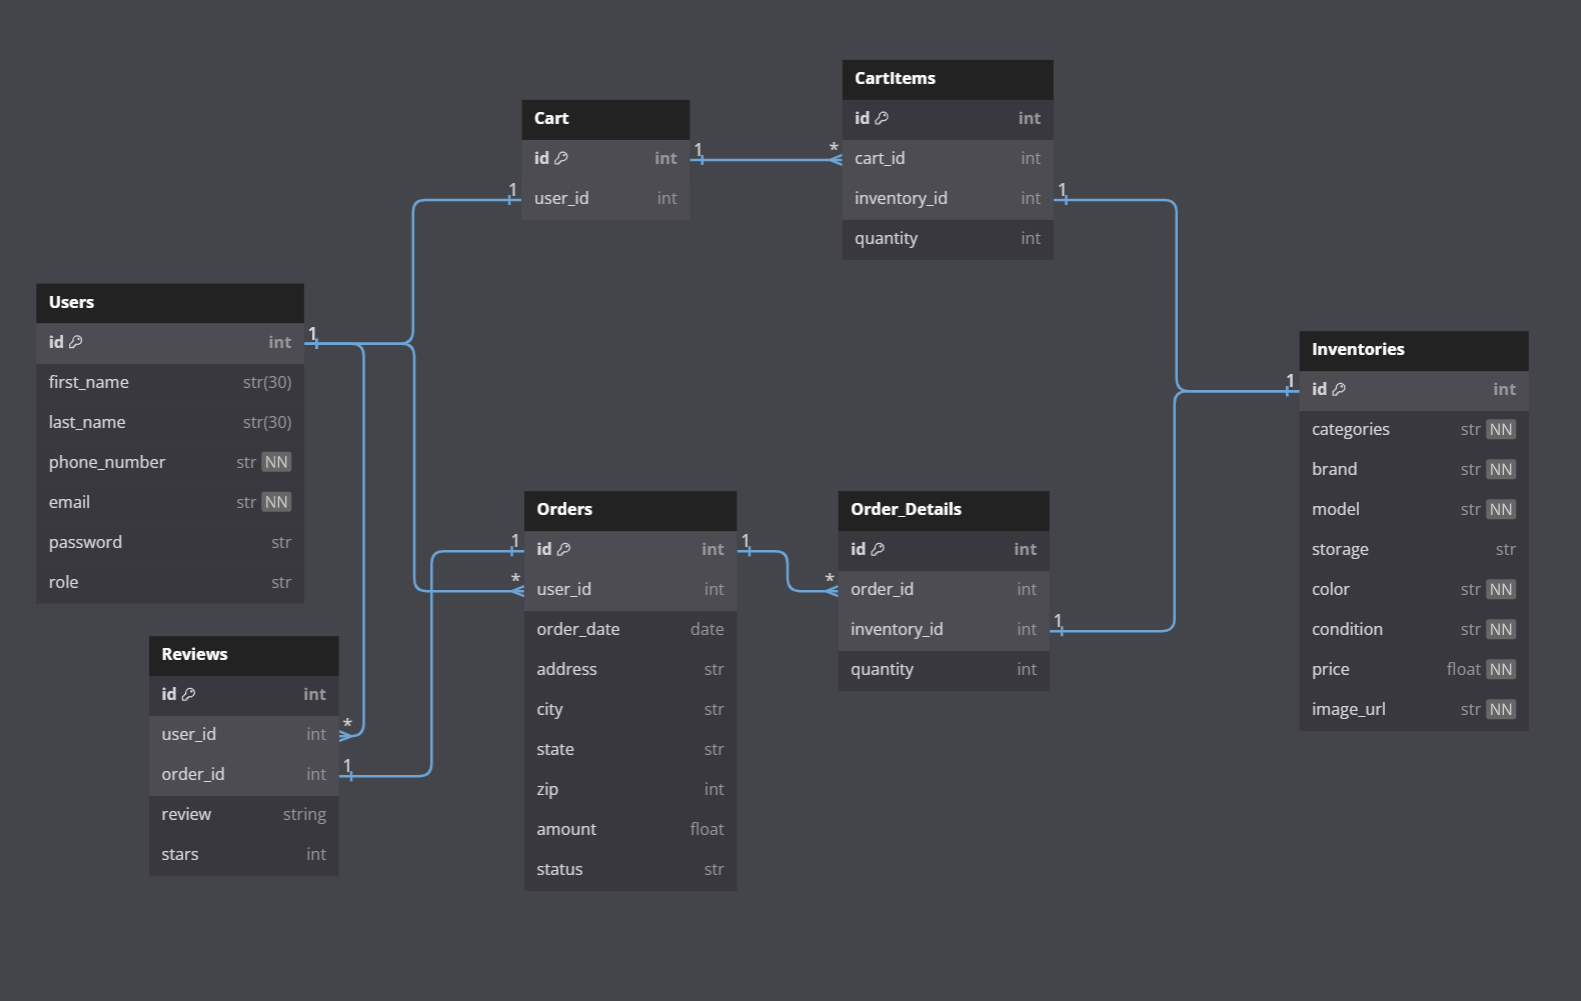
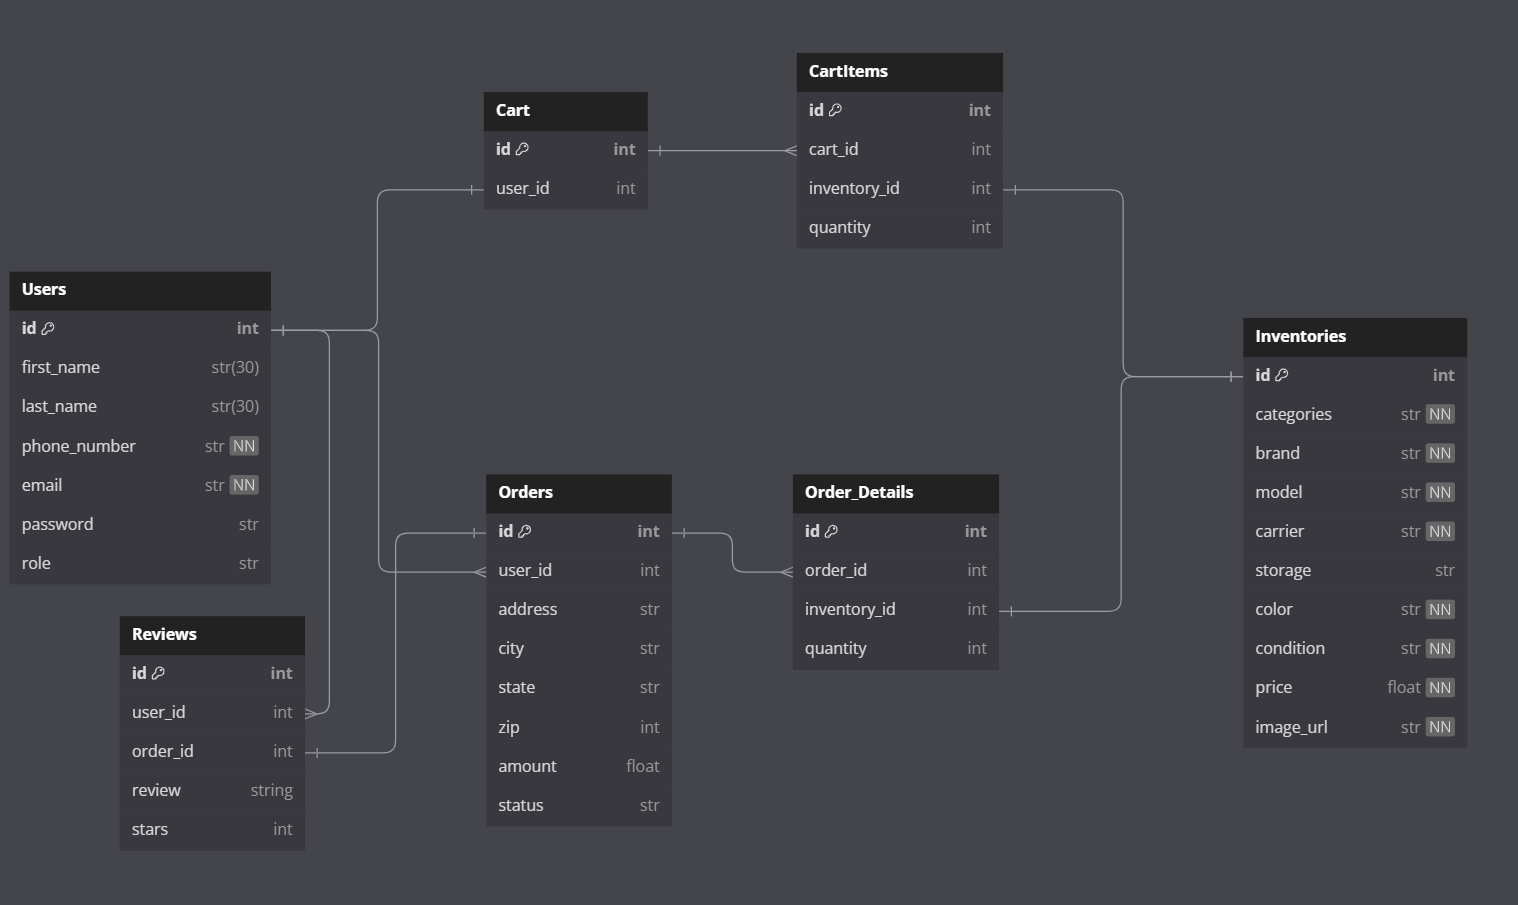
Order routes seems to be working fine

diff --git a/backend/routes/api/orders.js b/backend/routes/api/orders.js
@@ -1,0 +1,110 @@
+const express = require("express");
+const { requireAuth } = require("../../utils/auth");
+const { Order, OrderDetail, Inventory } = require("../../db/models");
+const { handleValidationErrors } = require("../../utils/validation");
+const { check } = require("express-validator");
+
+const router = express.Router();
+
+const validateOrder = [
+    check("address")
+        .exists({ checkFalsy: true })
+        .withMessage("Address is required"),
+    check("city")
+        .exists({ checkFalsy: true })
+        .withMessage("City is required"),
+    check("state")
+        .exists({ checkFalsy: true })
+        .withMessage("State is required"),
+    check("zip")
+        .exists({ checkFalsy: true })
+        .withMessage("Zip Code is required"),
+    handleValidationErrors
+]
+
+// Get All Orders, Role must be Admin
+router.get("/", requireAuth, async (req, res) => {
+  const userRole = req.user.role;
+  if (userRole !== "Admin")
+    return res.status(403).json({ message: "Forbidden" });
+
+  const orders = await Order.findAll();
+  return res.json(orders);
+});
+
+// Get All Order of Current User
+router.get("/current", requireAuth, async (req, res) => {
+  const user_id = req.user.id;
+
+  const orders = await Order.findAll({
+    where: { user_id: user_id },
+    include: [
+      {
+        model: OrderDetail,
+        attribute: { exclude: ["createdAt", "updatedAt"] },
+        include: [
+          {
+            model: Inventory,
+            attributes: { exclude: ["createdAt", "updatedAt"] },
+          },
+        ],
+      },
+    ],
+  });
+
+  return res.json(orders);
+});
+
+// Create An Order and its details
+router.post('/', requireAuth, validateOrder, async(req, res) => {
+    const user_id = req.user.id
+    const { address, city, state, zip, amount, order_details } = req.body
+
+    const newOrder = await Order.create({
+        user_id, address, city, state, zip, amount,
+        status: 'Order Received'
+    })
+
+    for (const detail of order_details) {
+        await OrderDetail.create({
+            order_id: newOrder.id,
+            inventory_id: detail.inventory_id,
+            quantity: detail.quantity
+        });
+    }
+
+    return res.json(newOrder)
+})
+
+// Edit an Order Status - Must be Owner
+router.put('/:orderId', requireAuth, async(req, res) => {
+    const orderId = req.params.orderId
+    const userRole = req.user.role
+
+    if (userRole !== 'Admin') return res.status(403).json({ message: "Forbidden" })
+
+    const order = await Order.findByPk(orderId)
+
+    if(!order) return res.status(404).json({ message: "Order not be found" });
+
+    const { status } = req.body
+
+    await order.update({ status })
+    return res.json(order)
+})
+
+// Delete an Order - Must be Owner
+router.delete('/:orderId', requireAuth, async(req, res) => {
+    const orderId = req.params.orderId
+    const userRole = req.user.role
+
+    if (userRole !== 'Admin') return res.status(403).json({ message: "Forbidden" })
+    const order = await Order.findByPk(orderId)
+
+    if(!order) return res.status(404).json({ message: "Order not be found" });
+
+    await order.destroy()
+    return res.json({ message: 'Successfully deleted!'})
+})
+
+module.exports = router;

diff --git a/backend/db/seeders/20240407212551-orders.js b/backend/db/seeders/20240407212551-orders.js
@@ -12,7 +12,6 @@ module.exports = {
     await Order.bulkCreate([
       {
         user_id: 1,
-        order_date: '2024-04-06',
         address: '345 Real St',
         city: 'Union City',
         state: 'CA',
@@ -22,7 +21,6 @@ module.exports = {
       },
       {
         user_id: 2,
-        order_date: '2024-04-07',
         address: '123 Fake St',
         city: 'Fremont',
         state: 'CA',
@@ -32,7 +30,6 @@ module.exports = {
       },
       {
         user_id: 2,
-        order_date: '2024-04-08',
         address: '585 Jay St',
         city: 'Santa Clara',
         state: 'CA',
@@ -42,7 +39,6 @@ module.exports = {
       },
       {
         user_id: 3,
-        order_date: '2024-03-29',
         address: '2030 Duane Ave',
         city: 'Santa Clara',
         state: 'CA',

diff --git a/backend/routes/api/index.js b/backend/routes/api/index.js
@@ -5,6 +5,7 @@ const inventoryRouter = require("./inventories.js");
 const reviewRouter = require("./reviews.js")
 const cartRouter = require('./carts.js')
 const cartItemRouter = require('./cartItem.js')
+const orderRouter = require('./orders.js')
 const { restoreUser } = require("../../utils/auth.js");
 
 router.use(restoreUser);
@@ -15,5 +16,6 @@ router.use("/inventories", inventoryRouter);
 router.use("/reviews", reviewRouter);
 router.use('/carts', cartRouter)
 router.use('/cart-items', cartItemRouter)
+router.use('/orders', orderRouter)
 
 module.exports = router;

diff --git a/backend/db/models/order.js b/backend/db/models/order.js
@@ -29,10 +29,6 @@ module.exports = (sequelize, DataTypes) => {
       type: DataTypes.INTEGER,
       allowNull: false
     },
-    order_date: {
-      type: DataTypes.DATE,
-      allowNull: false
-    },
     address: {
       type: DataTypes.STRING,
       allowNull: false

diff --git a/backend/db/migrations/20240407211810-create-order.js b/backend/db/migrations/20240407211810-create-order.js
@@ -20,9 +20,6 @@ module.exports = {
         references: {model: 'Users'},
         onDelete: 'CASCADE'
       },
-      order_date: {
-        type: Sequelize.DATE
-      },
       address: {
         type: Sequelize.STRING,
         allowNull: false
